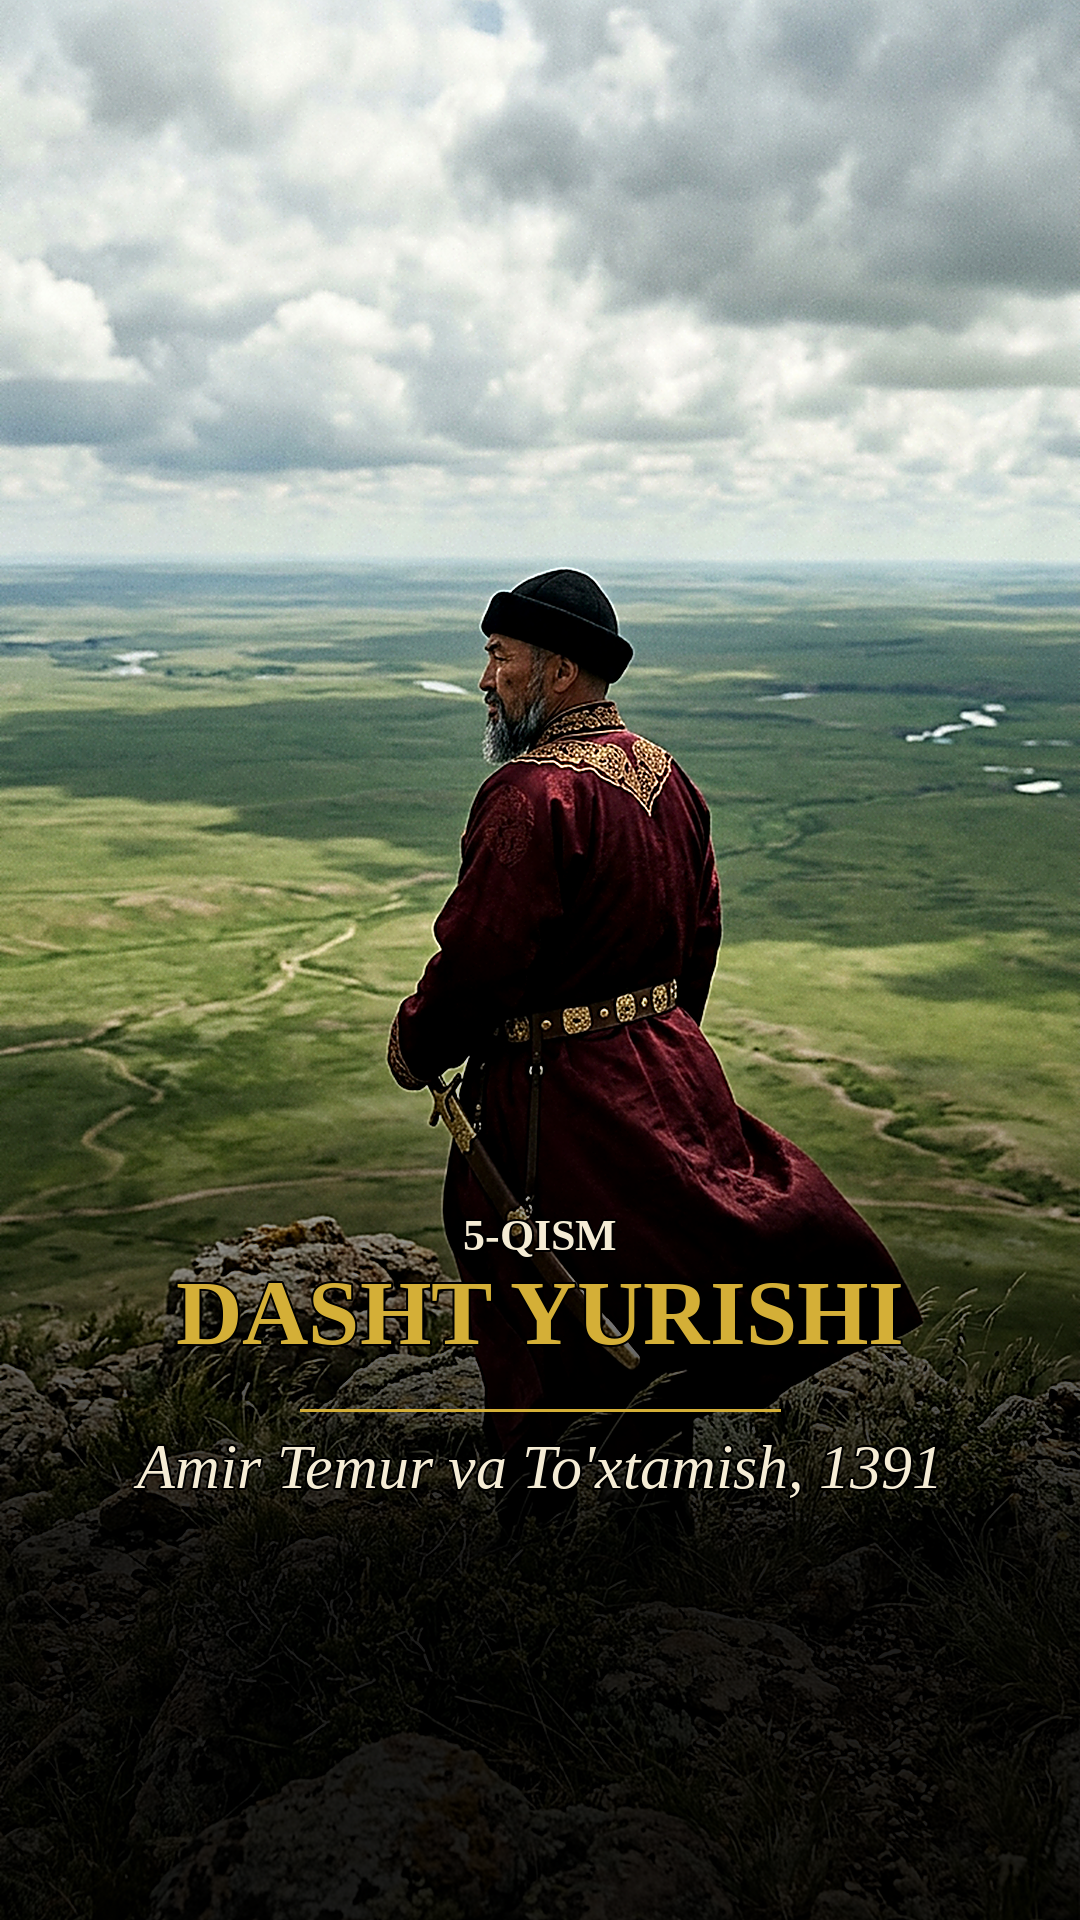
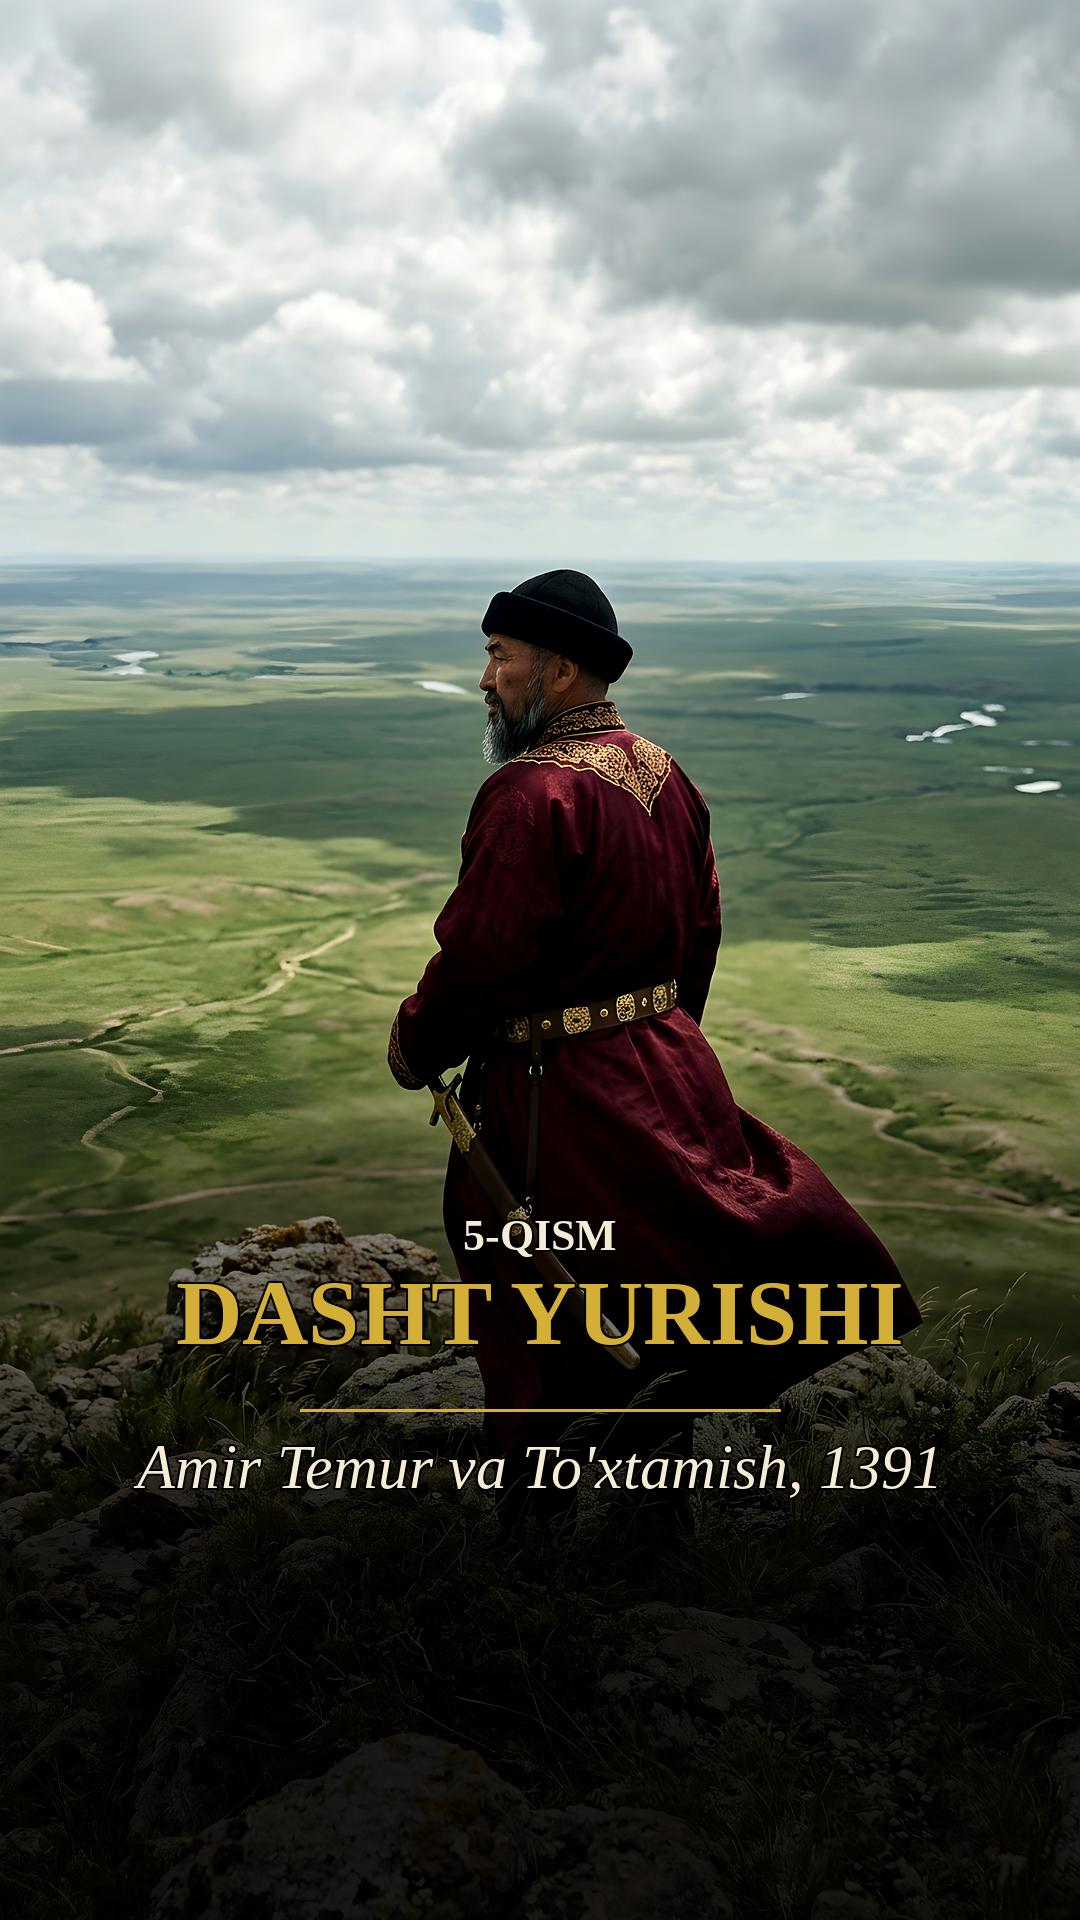
5-qism muqovasi: Real-ESRGAN bilan 4x tiniqlashtirilgan
Claude-Session: https://claude.ai/code/session_01TTDtXCNYS44hg5aPsZctEV

diff --git a/video/edit/insta_cover_p5.py b/video/edit/insta_cover_p5.py
@@ -6,14 +6,17 @@ root = pathlib.Path(__file__).resolve().parent.parent
 B = '/usr/share/fonts/truetype/liberation/LiberationSerif-Bold.ttf'
 I = '/usr/share/fonts/truetype/liberation/LiberationSerif-Italic.ttf'
 GOLD = (212, 175, 55); CREAM = (245, 236, 213)
-base = Image.open(root / ('public/p5img/' + (sys.argv[1] if len(sys.argv) > 1 else 'm16') + '.jpg')).convert('RGB')
-base = base.resize((base.width * 2, base.height * 2), Image.LANCZOS).filter(ImageFilter.SMOOTH_MORE).filter(ImageFilter.UnsharpMask(radius=2, percent=60, threshold=1))
+NAME = sys.argv[1] if len(sys.argv) > 1 else 'm16'
+# AI 4x upscale (Real-ESRGAN x4plus, ONNX, done once: public/p5img/<name>_x4.jpg) gives a sharp cover from the 768x1376 Flow image
+X4 = root / f'public/p5img/{NAME}_x4.jpg'
+base = Image.open(X4 if X4.exists() else root / f'public/p5img/{NAME}.jpg').convert('RGB')
+if not X4.exists(): base = base.resize((base.width * 2, base.height * 2), Image.LANCZOS).filter(ImageFilter.SMOOTH_MORE).filter(ImageFilter.UnsharpMask(radius=2, percent=60, threshold=1))
 sc = max(1080 / base.width, 1920 / base.height)
 base = base.resize((round(base.width * sc), round(base.height * sc)), Image.LANCZOS)
 l, t = (base.width - 1080) // 2, (base.height - 1920) // 2
 base = base.crop((l, t, l + 1080, t + 1920))
 from PIL import ImageFilter, ImageEnhance
-base = base.filter(ImageFilter.UnsharpMask(radius=1.4, percent=70, threshold=1)).filter(ImageFilter.UnsharpMask(radius=3.0, percent=35, threshold=2))
+base = base.filter(ImageFilter.UnsharpMask(radius=1.0, percent=40, threshold=2)) if X4.exists() else base.filter(ImageFilter.UnsharpMask(radius=1.4, percent=70, threshold=1)).filter(ImageFilter.UnsharpMask(radius=3.0, percent=35, threshold=2))
 base = ImageEnhance.Contrast(base).enhance(1.06)
 ov = Image.new('RGBA', (1080, 1920), (0, 0, 0, 0)); od = ImageDraw.Draw(ov)
 for y in range(950, 1920):

diff --git a/video/edit/upscale_onnx.py b/video/edit/upscale_onnx.py
@@ -1,0 +1,18 @@
+"""Tile-based 4x upscale with an ONNX ESRGAN model. usage: up.py model.onnx in.jpg out.png"""
+import sys, numpy as np, onnxruntime as ort
+from PIL import Image
+m, src, dst = sys.argv[1:4]
+s = ort.InferenceSession(m, providers=['CPUExecutionProvider']); name = s.get_inputs()[0].name
+img = np.asarray(Image.open(src).convert('RGB')).astype(np.float32) / 255
+H, W, _ = img.shape; T, P, S = 192, 16, 4
+out = np.zeros((H * S, W * S, 3), np.float32)
+for y in range(0, H, T):
+    for x in range(0, W, T):
+        y0, x0, y1, x1 = max(0, y - P), max(0, x - P), min(H, y + T + P), min(W, x + T + P)
+        t = img[y0:y1, x0:x1].transpose(2, 0, 1)[None]
+        r = s.run(None, {name: t})[0][0].transpose(1, 2, 0)
+        oy, ox = (y - y0) * S, (x - x0) * S
+        h, w = min(T, H - y) * S, min(T, W - x) * S
+        out[y * S:y * S + h, x * S:x * S + w] = r[oy:oy + h, ox:ox + w]
+    print(f'{min(100, (y + T) * 100 // H)}%', flush=True)
+Image.fromarray((np.clip(out, 0, 1) * 255 + 0.5).astype(np.uint8)).save(dst)

diff --git a/CLAUDE.md b/CLAUDE.md
@@ -242,7 +242,7 @@ words, and list the hard names for the user to listen for.
   pursuit map tighter (arrows from Qunduzcha to the Itil, label below the node), OLTIN O'RDA label on a dark plate.
   Design rule from this: check every still for key details in the subtitle band (y 1395-1560) before rendering.
   Cover: `instagram/cover_part5.png` (m16, Temur on the hill over the steppe; the user chose A), alternative
-  `cover_part5_m05.png`; script `edit/insta_cover_p5.py` (2x Lanczos + sharpening; a 2K Flow download of m16 would be sharper).
+  `cover_part5_m05.png`; script `edit/insta_cover_p5.py` (uses `public/p5img/m16_x4.jpg`: Real-ESRGAN x4plus 4x upscale run with onnxruntime on CPU, ONNX model from the Hugging Face repo OwlMaster/AllFilesRope, tiles of 192 px, about 2.5 min; reuse this for every cover: the user found the plain upscale blurry).
   Voice fixes pending: the user will re-record 0:22 "lochin olib kelishgan", 0:33 "Uni yarador holda olib kelishdi. Men uni
   o'g'limdek qabul qildim." and 0:58 "Ulug' tog'" (said as "to'g'"); then splice, render only the changed frames, run `final`.
   TODO: captions (`instagram/post_part5.md`), export chats 6/7 to `suhbat/`.
